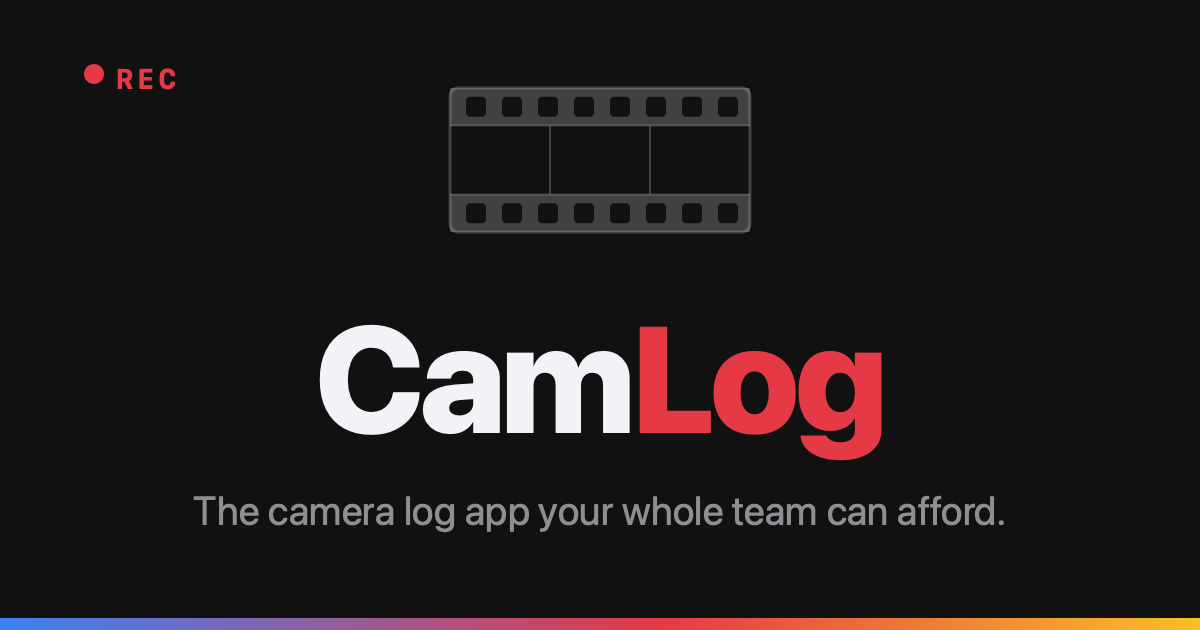
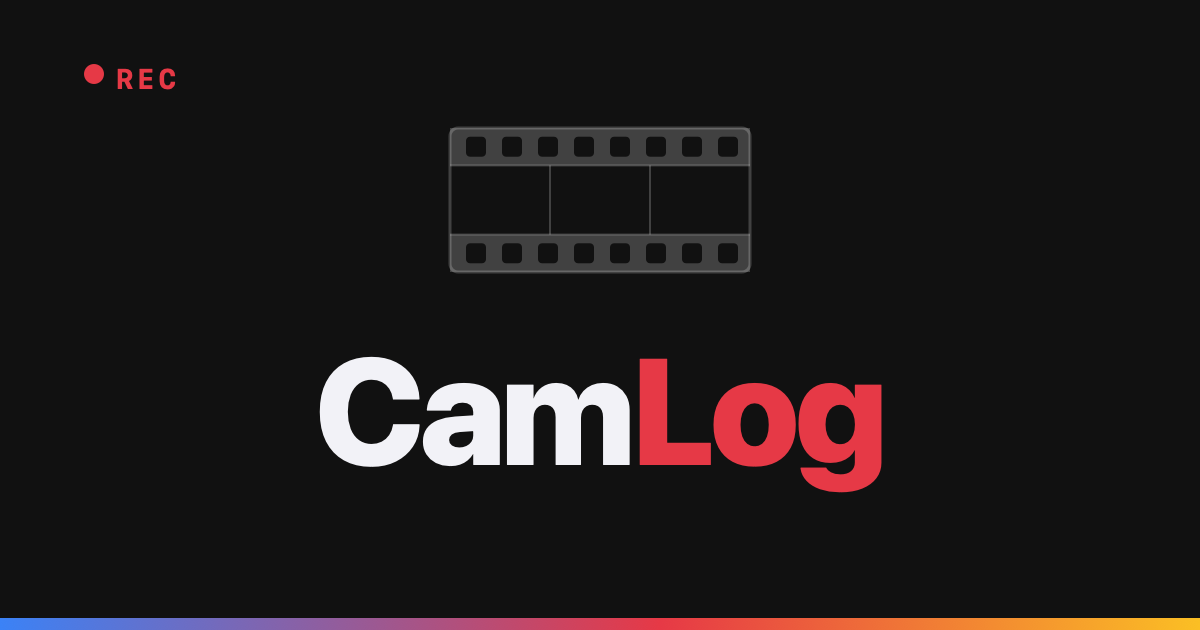
Drop tagline from OG image to avoid duplicate copy
The share preview showed the tagline twice — baked into the image and
again as the link title below it. Remove it from the image (now a clean
brand shot: REC + film strip + wordmark + gradient) so the sentence
appears once, as the og:title. Bump og:image URL to ?v=2 to bust caches.

Changed region(s): [[0.1542, 0.5127, 0.8325, 0.8444], [0.37, 0.1206, 0.6475, 0.2714], [0.37, 0.3016, 0.6475, 0.4524]]

diff --git a/index.html b/index.html
@@ -9,12 +9,12 @@
   <meta property="og:description" content="Free camera notes for film productions. No subscriptions, no per-user pricing. CamLog Pro adds multi-user sync for $8 one-time per project.">
   <meta property="og:url" content="https://camlog.app">
   <meta property="og:type" content="website">
-  <meta property="og:image" content="https://camlog.app/og.png">
+  <meta property="og:image" content="https://camlog.app/og.png?v=2">
   <meta property="og:image:width" content="1200">
   <meta property="og:image:height" content="630">
   <meta property="og:image:alt" content="CamLog — the camera log app your whole team can afford.">
   <meta name="twitter:card" content="summary_large_image">
-  <meta name="twitter:image" content="https://camlog.app/og.png">
+  <meta name="twitter:image" content="https://camlog.app/og.png?v=2">
   <meta name="theme-color" content="#111111">
   <link rel="icon" href="/favicon.png">
 